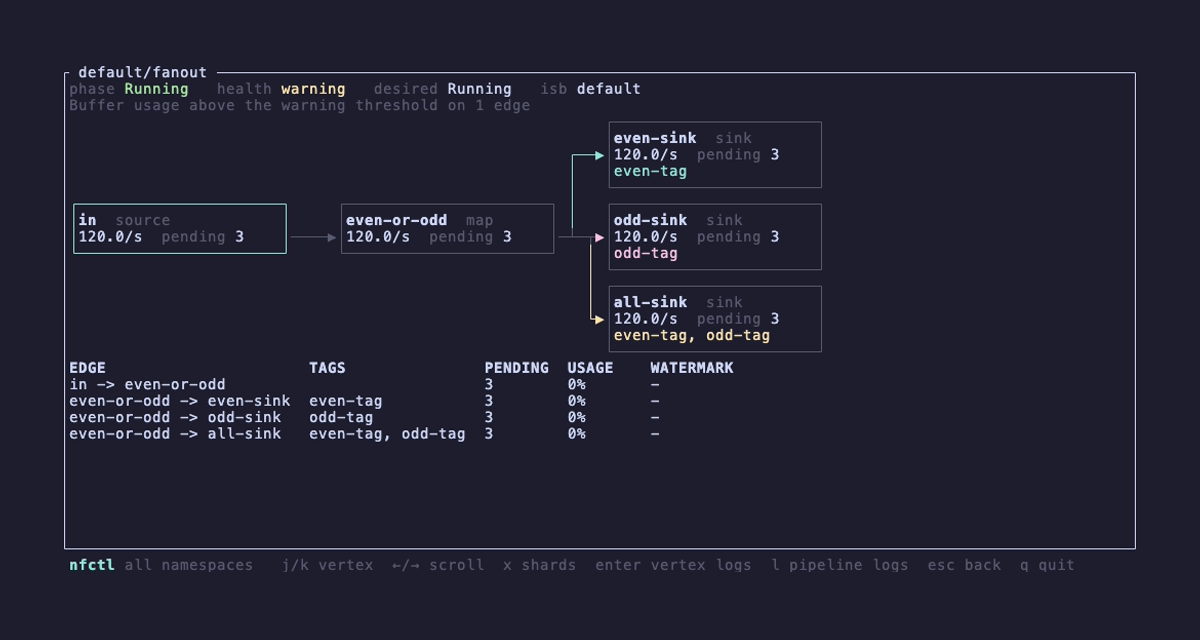
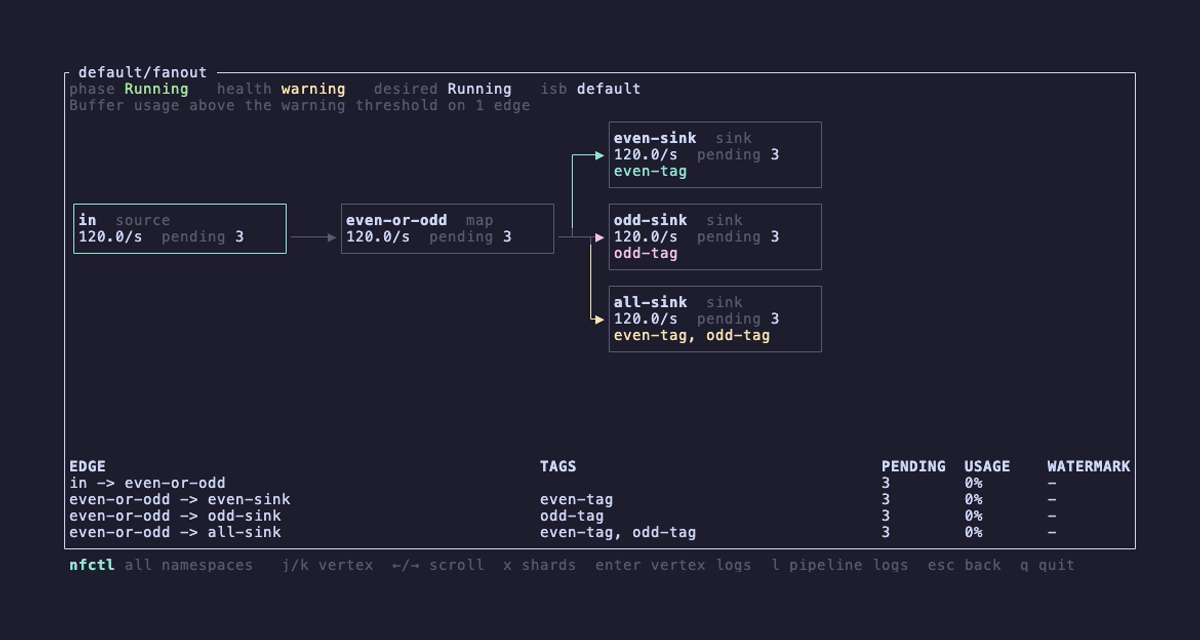
feat(tui): cards a fixed odd height; forks coloured by the turning edge
Every card is five rows, so an edge meets a true middle row and cards
in one column line up whether or not they carry a badge. Where a fork
mixes colours, the junction cell takes the colour of the edge that turns
there instead of falling back to grey. The gallery reloads itself when
regenerated, so notes are never made on a stale frame.

diff --git a/crates/nfctl-tui/src/cards.rs b/crates/nfctl-tui/src/cards.rs
@@ -15,7 +15,8 @@ use unicode_width::UnicodeWidthStr;
 
 use crate::style::{self, Palette};
 
-pub const CARD_HEIGHT: u16 = 4;
+/// Borders, name row, numbers row, badge row: odd, so edges meet a middle row.
+pub const CARD_HEIGHT: u16 = 5;
 /// Fits `999.9/s pend 999` inside the borders.
 const MIN_CARD: u16 = 17;
 /// Fits `999.9/s  pending 9999`.
@@ -111,6 +112,9 @@ struct Canvas {
     dx: i32,
     cells: Vec<u8>,
     ink: Vec<Ink>,
+    /// Colour of the first edge to run vertically through a cell: where a
+    /// fork or crossing mixes colours, the edge that turns there wins.
+    turn: Vec<Ink>,
     heads: Vec<Option<Ink>>,
 }
 
@@ -123,6 +127,7 @@ impl Canvas {
             dx,
             cells: vec![0; w * h],
             ink: vec![Ink::None; w * h],
+            turn: vec![Ink::None; w * h],
             heads: vec![None; w * h],
         }
     }
@@ -140,6 +145,9 @@ impl Canvas {
                 Ink::One(c) if c == colour => Ink::One(c),
                 _ => Ink::Mixed,
             };
+            if bits & (U | D) != 0 && self.turn[i] == Ink::None {
+                self.turn[i] = Ink::One(colour);
+            }
         }
     }
 
@@ -210,9 +218,14 @@ impl Canvas {
                 let mut run_style = style::dim();
                 for x in 0..self.w {
                     let i = y * self.w + x;
-                    let (ch, st) = match self.heads[i] {
-                        Some(ink) => ('▶', paint(ink)),
-                        None => (Self::glyph(self.cells[i]), paint(self.ink[i])),
+                    let (ch, st) = if let Some(ink) = self.heads[i] {
+                        ('▶', paint(ink))
+                    } else {
+                        let ink = match (self.ink[i], self.turn[i]) {
+                            (Ink::Mixed, Ink::One(c)) => Ink::One(c),
+                            (ink, _) => ink,
+                        };
+                        (Self::glyph(self.cells[i]), paint(ink))
                     };
                     if st != run_style && !run.is_empty() {
                         spans.push(Span::styled(std::mem::take(&mut run), run_style));

diff --git a/crates/nfctl-graph/src/layout/route.rs b/crates/nfctl-graph/src/layout/route.rs
@@ -37,9 +37,9 @@ struct Geometry {
     cards_h: i32,
 }
 
-fn geometry(l: &Layered, badges: &HashMap<NodeId, Vec<Badge>>, opts: LayoutOptions) -> Geometry {
+fn geometry(l: &Layered, opts: LayoutOptions) -> Geometry {
     let slot_h = |n: &LNode| match n {
-        LNode::Real(id) => i32::from(opts.card_h + u16::from(badges.contains_key(id))),
+        LNode::Real(_) => i32::from(opts.card_h),
         LNode::Pass(_) => 1,
     };
     let heights: Vec<i32> = l
@@ -62,7 +62,10 @@ fn geometry(l: &Layered, badges: &HashMap<NodeId, Vec<Badge>>, opts: LayoutOptio
         for &n in col {
             match n {
                 LNode::Real(id) => {
-                    let h = opts.card_h + u16::from(badges.contains_key(&id));
+                    // Every card is the same (odd) height so edges meet a true
+                    // middle row and siblings line up; the badge row is blank
+                    // when nothing tagged arrives.
+                    let h = opts.card_h;
                     // Edges meet the card on its middle row.
                     geo.attach.insert(n, (c, y + i32::from(h) / 2));
                     geo.cards.push(CardPos {
@@ -339,7 +342,7 @@ pub(crate) fn build(
 ) -> Layout {
     let cols = layered.columns.len();
     let card_w = i32::from(opts.card_w);
-    let geo = geometry(layered, badges, opts);
+    let geo = geometry(layered, opts);
     let lane = lanes(g, ranked, geo.cards_h);
     let sp = spans(g, ranked, layered, &geo, &lane, edge_colour);
     let margin = if g

diff --git a/crates/nfctl-graph/src/layout/tests.rs b/crates/nfctl-graph/src/layout/tests.rs
@@ -13,7 +13,7 @@ fn topo(body: &str) -> Topology {
 
 const OPTS: LayoutOptions = LayoutOptions {
     card_w: 12,
-    card_h: 4,
+    card_h: 5,
 };
 
 fn lay(body: &str) -> (ViewGraph, Layout) {
@@ -54,7 +54,7 @@ fn linear_chain_is_one_row() {
     let (g, l) = lay("a([a]) --> b[b]\n b --> c[[c]]");
     assert_eq!(l.columns.len(), 3);
     assert!(l.cards.iter().all(|c| c.y == 0));
-    assert_eq!(l.height, 4);
+    assert_eq!(l.height, 5);
     assert_eq!(l.lanes, 0);
     check_endpoints(&g, &l);
     assert_eq!(l.routes[0].polyline, vec![(12, 2), (16, 2)]);
@@ -65,7 +65,7 @@ fn fan_out_shares_one_track() {
     let (g, l) = lay("s([s]) --> a[a]\n s --> b[b]\n s --> c[c]\n s --> d[d]");
     assert_eq!(l.gaps[0].tracks.len(), 1);
     assert_eq!(l.gaps[0].width, MIN_GAP);
-    assert_eq!(l.height, 16);
+    assert_eq!(l.height, 20);
     check_endpoints(&g, &l);
 }
 
@@ -108,7 +108,7 @@ fn cycle_gets_a_lane_under_the_cards() {
     assert_eq!(l.columns.len(), 4);
     let back = &l.routes[2];
     let lane_y = back.polyline.iter().map(|p| p.1).max().unwrap();
-    assert_eq!(lane_y, 4);
+    assert_eq!(lane_y, 5);
     check_endpoints(&g, &l);
 }
 

diff --git a/crates/nfctl-tui/examples/gallery.rs b/crates/nfctl-tui/examples/gallery.rs
@@ -320,6 +320,8 @@ function render(f){const pre=f.querySelector('pre'),ink=f.querySelector('canvas'
 const palette={};function colourFor(cls){const k=cls.split(' ')[0];if(!palette[k]){const s=document.createElement('span');s.className=k;document.body.appendChild(s);palette[k]=colourOf(s);s.remove();}return palette[k];}
 const dl=(name,url)=>{const a=document.createElement('a');a.href=url;a.download=name;a.click();};
 window.onbeforeunload=()=>{if(pending)flush();};
+// Reload when `just gallery` regenerates the page, so notes are never made on a stale frame.
+let build=null;setInterval(()=>fetch(API+'/build').then(r=>r.text()).then(b=>{if(build===null)build=b;else if(b!==build){if(pending)flush();location.reload();}}).catch(()=>{}),3000);
 const nameOf=f=>(f.closest('section').querySelector('h2').firstChild.textContent+' '+f.dataset.tab).replace(/[^a-z0-9]+/gi,'-');
 function exportPng(f){const o=render(f),url=o.toDataURL('image/png');
  if(online)o.toBlob(b=>fetch(API+'/png/'+nameOf(f)+'.png',{method:'POST',body:b}).then(()=>setStatus('PNG saved to target/gallery/png/')).catch(()=>dl(nameOf(f)+'.png',url)));else dl(nameOf(f)+'.png',url);}

diff --git a/scripts/gallery-notes.py b/scripts/gallery-notes.py
@@ -37,6 +37,10 @@ class H(BaseHTTPRequestHandler):
     def do_GET(self):
         if self.path == "/notes.json":
             self._reply(200, NOTES.read_bytes() if NOTES.exists() else b"{}")
+        elif self.path == "/build":
+            page = DIR / "index.html"
+            stamp = str(page.stat().st_mtime_ns) if page.exists() else "0"
+            self._reply(200, stamp.encode())
         else:
             self._reply(404, b"{}")
 

diff --git a/crates/nfctl-graph/src/layout/mod.rs b/crates/nfctl-graph/src/layout/mod.rs
@@ -96,6 +96,8 @@ impl Layout {
 #[derive(Debug, Clone, Copy)]
 pub struct LayoutOptions {
     pub card_w: u16,
+    /// Rows per card, borders included. Odd, so there is a middle row; the
+    /// last content row holds tag badges.
     pub card_h: u16,
 }
 
